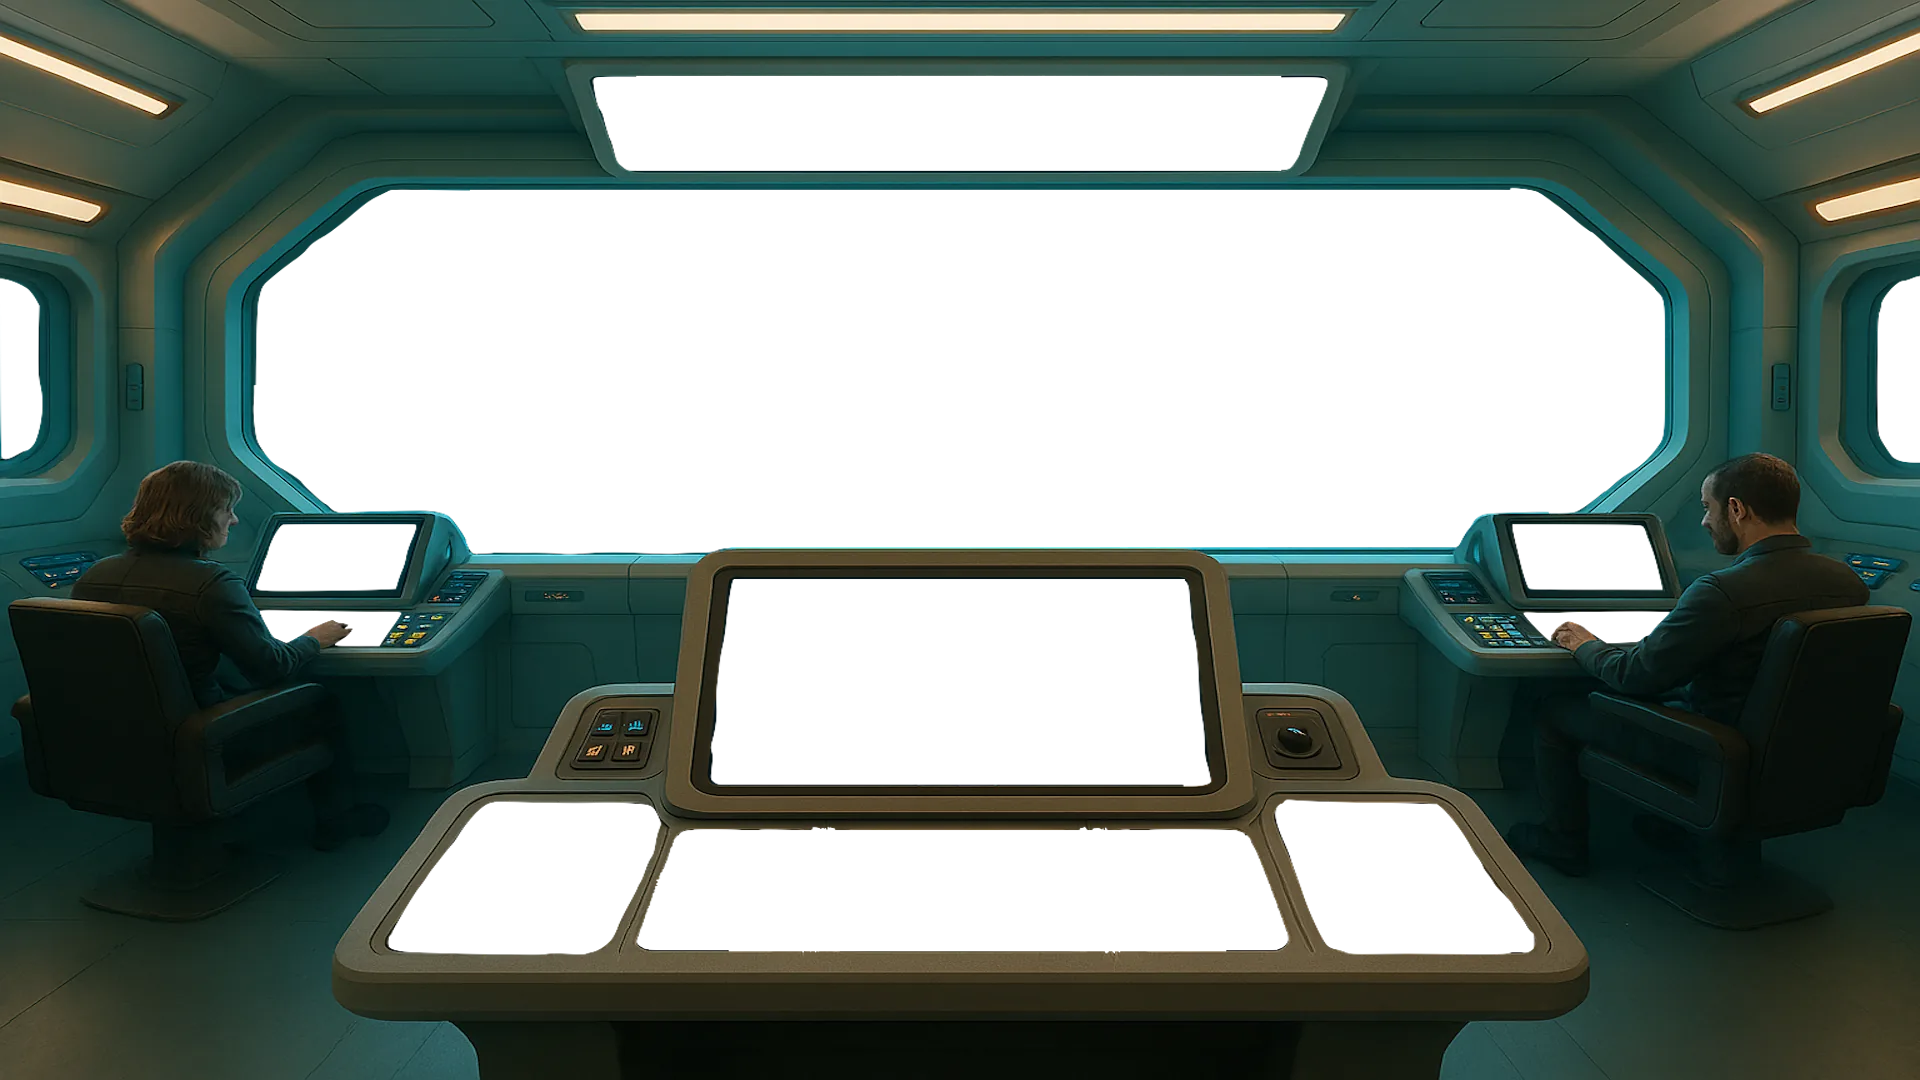
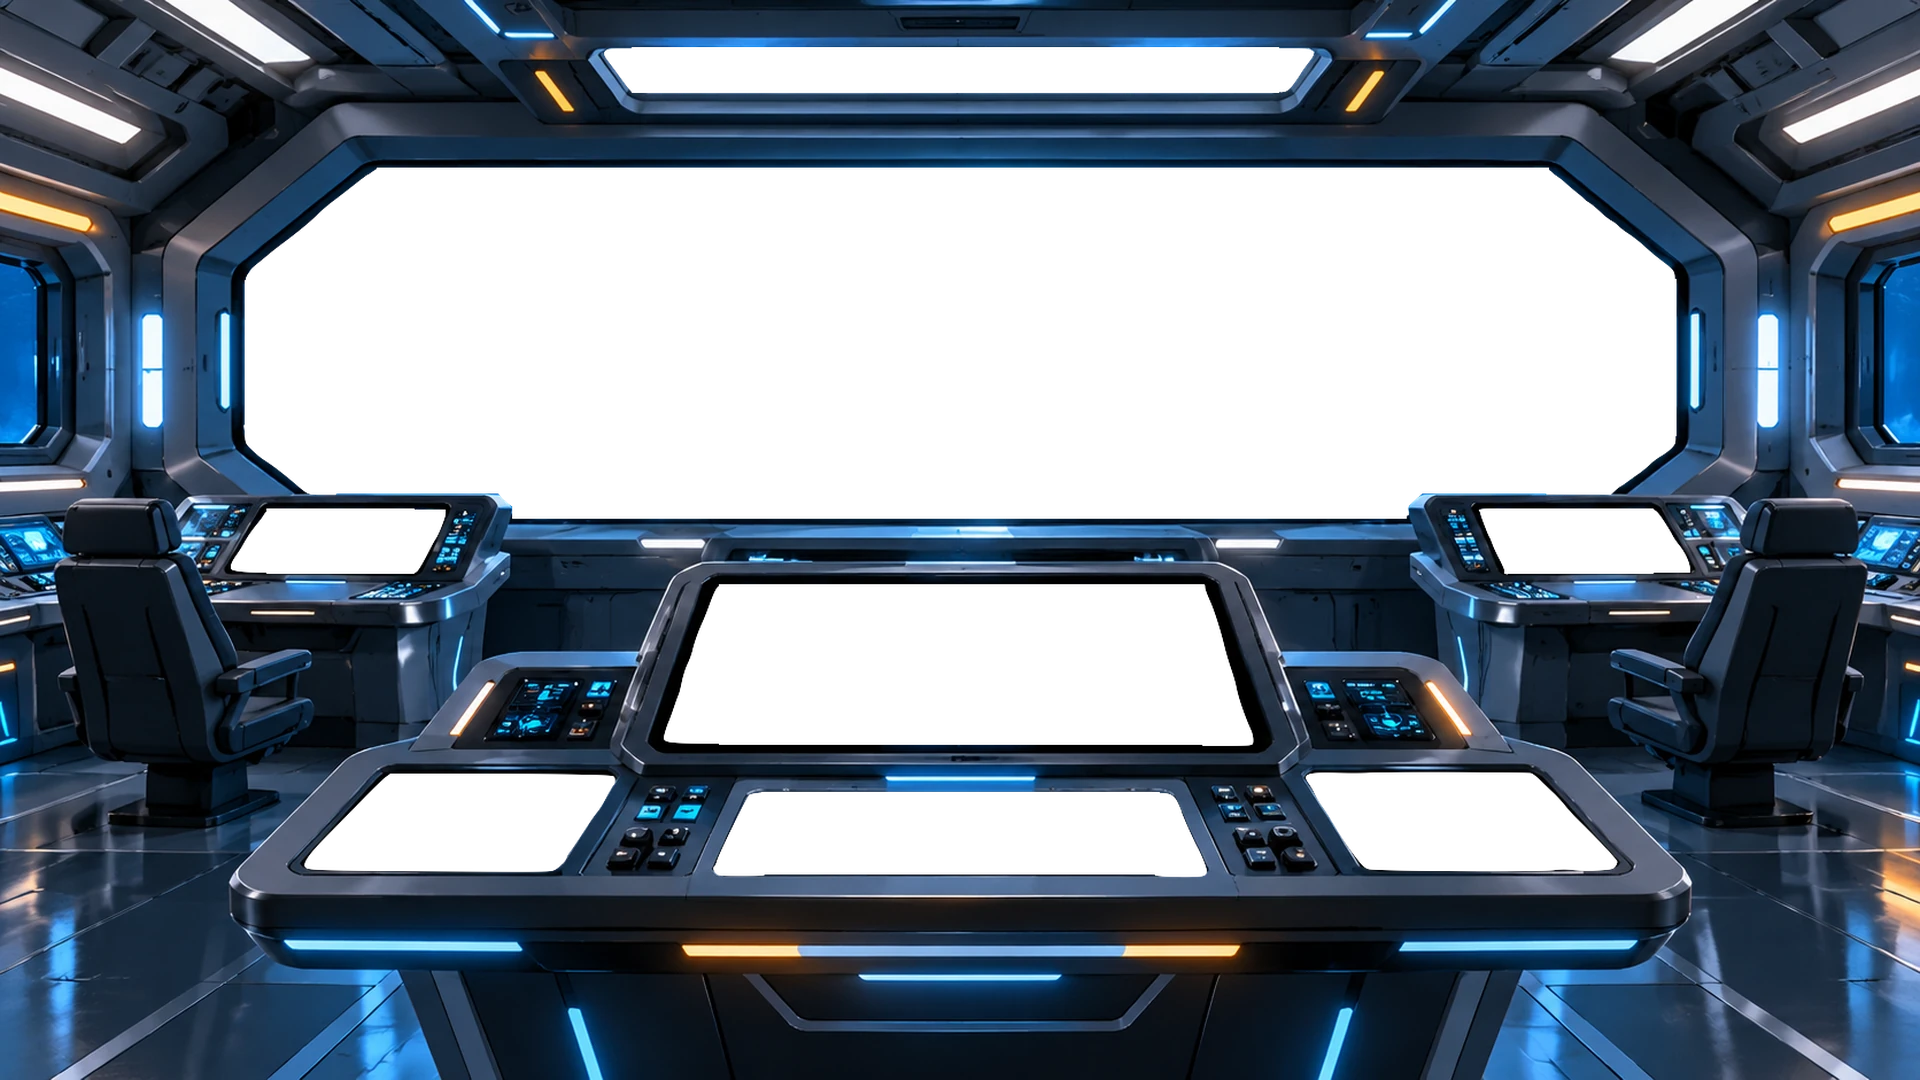
New bridge and science lab art, with live screens tilted into the cut-outs
bridge.png: 8 cut-outs (window, strip, centre display, three desk panels, two
station screens). science.png: 5 cut-outs (banner, samples, research, analysis,
remora). Corners found by tools/cutouts.py. The old bridge frame art stays in
assets/images.

Claude-Session: https://claude.ai/code/session_01QsU1qWEAPEAk9jRv6Wrose

diff --git a/tablet/js/scene.js b/tablet/js/scene.js
@@ -2,6 +2,7 @@
 import { sim } from './sim.js';
 import { el } from './util.js';
 import { createBridgeConsole } from './bridge.js';
+import { samples, sampleName, jobs, points, research, LABS } from './science.js';
 
 const box = (cls, x, y, w, h, kids) => el('div', { class: `disp ${cls}`, style: `left:${x}px;top:${y}px;width:${w}px;height:${h}px` }, kids);
 
@@ -42,11 +43,21 @@ export function createScene(stage, { onOpen }) {
     el('button', { class: `hs ${extra}`, style: `left:${x}px;top:${y}px;width:${w}px;height:${h}px`, 'aria-label': label, onclick },
       el('span', { class: `tag ${tagPos}`, text: label }));
 
+  // The art (bridge.png, 1920x1080) has eight cut-outs; each screen sits behind its cut-out. Corners are TL, TR, BR, BL on the stage.
+  // W x H is the screen's own size, with the perspective undone (flat desk panels are deeper than they look), so the picture is tilted and squeezed the way the glass is.
+  const stnL = el('div', { class: 'bstn' }, el('b', { text: 'COMMS' }), el('span', { text: 'STANDBY' }));
+  const stnR = el('div', { class: 'bstn' }, el('b', { text: 'SENSORS' }), el('span', { text: 'STANDBY' }));
+  topD.classList.add('compact');
   bridge.append(
-    box('bmainbox', 254, 189, 1410, 364, [mainD]), box('', 594, 76, 733, 94, [topD]), slanted('bdispbox', dispD, 478, 204, [[730, 581], [1187, 581], [1206, 781], [711, 781]]),
-    slanted('', ctrD, 612, 118, [[674, 832], [1243, 832], [1287, 947], [641, 947]]),
-    slanted('', leftD, 205, 146, [[470, 805], [640, 808], [595, 947], [379, 947]]),
-    slanted('', rightD, 180, 128, [[1292, 812], [1441, 816], [1515, 938], [1327, 938]]), frame,
+    box('bmainbox', 243, 168, 1433, 351, [mainD]),                                                        // the big window
+    slanted('btbox', topD, 720, 48, [[604, 55], [1313, 52], [1278, 92], [632, 92]]),                      // strip over the window
+    slanted('bdispbox', dispD, 560, 190, [[719, 584], [1203, 584], [1253, 740], [664, 735]]),             // centre display
+    slanted('', ctrD, 612, 130, [[752, 793], [1159, 792], [1206, 872], [713, 867]]),                      // centre desk
+    slanted('', leftD, 224, 132, [[389, 774], [614, 778], [552, 870], [304, 865]]),                       // left desk panel
+    slanted('', rightD, 224, 132, [[1306, 776], [1530, 772], [1616, 864], [1369, 869]]),                  // right desk panel
+    slanted('', stnL, 200, 74, [[266, 508], [444, 510], [413, 573], [231, 568]]),                         // left station screen
+    slanted('', stnR, 200, 74, [[1479, 510], [1652, 508], [1689, 572], [1504, 573]]),                     // right station screen
+    frame,
     hs('COMMS', 40, 430, 520, 350, () => onOpen('comms'), 'top'),        // comms officer, left station
     hs('SENSORS', 1380, 430, 520, 350, () => onOpen('sensors'), 'top'),  // sensors, right station
     hs('◂ WALKWAY', 0, 890, 330, 190, () => onOpen('walkway'), 'mid'),    // lower corners leave the bridge
@@ -96,16 +107,26 @@ export function createScene(stage, { onOpen }) {
     door('LAUNCH BAY', 396, 287, 494, 586, 'launchbay'),
     door('ENGINEERING', 1062, 300, 413, 440, 'engineering'),
     hs('A1 DECK ▼', 560, 900, 800, 180, () => onOpen('walkway'), 'mid'));
-  // science lab: placeholder art (medbay concept). Samples, analysis and research live in the Lab station; the ROV in the Launch Bay.
+  // science lab (science.png, 1920x1080): five cut-outs hold live screens that open the stations they show. The door leads out to the walkway.
+  const sci = { banner: el('div', { class: 'sciscr' }), samples: el('div', { class: 'sciscr' }), analysis: el('div', { class: 'sciscr' }), research: el('div', { class: 'sciscr' }), remora: el('div', { class: 'sciscr' }) };
+  const sciFrame = el('img', { class: 'frame', src: 'assets/science.webp', alt: '', draggable: 'false', decoding: 'async' });
   const science = el('div', { class: 'scene science', hidden: true });
-  science.append(el('img', { src: 'assets/science.webp', alt: '', draggable: 'false', style: 'position:absolute;inset:0;width:100%;height:100%;object-fit:cover' }),
-    hs('SAMPLES', 20, 400, 780, 560, () => onOpen('lab'), 'top'),
-    hs('ANALYSIS', 520, 250, 300, 340, () => onOpen('lab-analysis'), 'top'),
-    hs('RESEARCH', 1660, 440, 260, 560, () => onOpen('lab-research'), 'bottom'),
-    hs('REMORA', 830, 300, 190, 220, () => onOpen('remora'), 'top'),
-    hs('WALKWAY ▸', 1500, 320, 260, 330, () => onOpen('walkway'), 'mid'),
-    hs('MEDBAY', 1040, 540, 520, 300, () => onOpen('medbay'), 'mid'),
-    el('div', { class: 'art-note', text: 'Placeholder art' }));
+  science.append(
+    slanted('', sci.banner, 350, 72, [[365, 215], [715, 225], [723, 289], [370, 282]]),
+    slanted('', sci.samples, 250, 206, [[1569, 110], [1816, 36], [1810, 242], [1566, 281]]),
+    slanted('', sci.research, 296, 186, [[1596, 335], [1887, 301], [1882, 487], [1596, 483]]),
+    slanted('', sci.analysis, 160, 172, [[1107, 345], [1265, 311], [1268, 482], [1109, 483]]),
+    slanted('', sci.remora, 190, 96, [[749, 378], [936, 378], [936, 472], [750, 475]]),
+    sciFrame,
+    hs('SAMPLES', 666, 620, 680, 430, () => onOpen('lab'), 'top'),                 // the island bench
+    hs('ANALYSIS', 1280, 540, 640, 300, () => onOpen('lab-analysis'), 'top'),     // the bench with the racks and the microscope
+    hs('RESEARCH', 0, 380, 240, 260, () => onOpen('lab-research'), 'bottom'),     // the machine on the left
+    hs('MEDBAY', 0, 700, 330, 380, () => onOpen('medbay'), 'mid'),                // no door for it in the art yet
+    hs('WALKWAY ▸', 345, 345, 255, 300, () => onOpen('walkway'), 'mid'),          // the door
+    hs('SAMPLES', 1530, 60, 330, 250, () => onOpen('lab'), 'bottom'),             // the screens
+    hs('RESEARCH', 1590, 300, 310, 200, () => onOpen('lab-research'), 'bottom'),
+    hs('ANALYSIS', 1100, 310, 175, 180, () => onOpen('lab-analysis'), 'bottom'),
+    hs('REMORA', 745, 370, 195, 110, () => onOpen('remora'), 'bottom'));
   // medbay (concept art). Treatment and crew health are not built yet; the exam table is a locked tap area for now.
   const medbay = el('div', { class: 'scene medbay', hidden: true });
   const mbRead = el('div', { class: 'mb-read' });
@@ -133,6 +154,16 @@ export function createScene(stage, { onOpen }) {
     stage.addEventListener('click', (e) => { if (Date.now() - shown < 600) { e.stopPropagation(); e.preventDefault(); } }, true);   // the press that revealed the labels is not a tap
   }
 
+  const row = (k, v) => `<div><span>${k}</span><b>${v}</b></div>`;
+  function updateScience() {
+    const sm = samples(), jb = jobs(), s = sim.s, r = s.rov, done = research.done();
+    const put = (key, html) => { if (cache.get('sci' + key) !== html) { cache.set('sci' + key, html); sci[key].innerHTML = html; } };
+    put('banner', `<h4>SCIENCE LAB</h4><p>${sm.length} sample${sm.length === 1 ? '' : 's'} · ${jb.length ? jb.length + ' analysing' : 'labs idle'}</p>`);
+    put('samples', `<h4>SAMPLES</h4>${sm.length ? sm.slice(-5).reverse().map((q) => `<p class="${q.status === 'done' ? 'ok' : ''}">${sampleName(q, sm)}</p>`).join('') : '<p class="dim">None yet</p>'}`);
+    put('analysis', `<h4>ANALYSIS</h4>${Object.entries(LABS).map(([id, l]) => { const j = jb.find((x) => x.lab === id); return row(l.name.split(' ')[0], j ? Math.max(0, Math.round((j.end - s.clock) / 60)) + ' min' : 'idle'); }).join('')}`);
+    put('research', `<h4>RESEARCH</h4>${row('Points', points())}${row('Topics done', done.length)}`);
+    put('remora', `<h4>REMORA</h4>${r ? row('Status', r.auto ? 'coming home' : r.job ? 'working' : 'out') + row('Storage', `${(r.cargo || []).length} of 3`) : row('Status', 'in bay')}`);
+  }
   const api = {
     inQuarters: false, where: 'bridge',
     show(which) {
@@ -146,6 +177,7 @@ export function createScene(stage, { onOpen }) {
         if (cache.get('mb') !== t) { cache.set('mb', t); mbRead.textContent = t; mbView.style.setProperty('--dark', Math.min(0.92, 0.25 + sim.s.depth / 700).toFixed(2)); }
         return;
       }
+      if (api.where === 'science') { updateScience(); return; }
       if (api.where !== 'bridge') return;
       const s = sim.s;
       consoleApi.update();

diff --git a/tablet/tablet.css b/tablet/tablet.css
@@ -711,3 +711,16 @@ input.mix { width: 100%; height: 2.4rem; accent-color: var(--cyan); }
 .tether.long .tt-fill { background: #b8860b; } .tether.long .tt-head { color: #ffd166; }
 .tether.taut .tt-fill { background: #d9534f; } .tether.taut .tt-head { color: #ff8a84; }
 .tether[hidden] { display: none; }
+
+/* ---- new bridge art: the strip over the window is one line; station screens ---- */
+.bt.compact { flex-direction: row; gap: 14px; justify-content: center; align-items: center; }
+.bt.compact .bt-place { font-size: 19px; max-width: 250px; } .bt.compact .bt-pos { font-size: 14px; letter-spacing: 0; } .bt.compact .bt-note { font-size: 16px; max-width: 280px; }
+.bt.compact .bt-stack { gap: 0; } .bt.compact .bt-title.big, .bt.compact .bt-title.mid { font-size: 24px; line-height: 28px; } .bt.compact .bt-title.small { font-size: 20px; line-height: 22px; -webkit-line-clamp: 1; } .bt.compact .bt-body { display: none; }
+.bstn { position: absolute; inset: 0; background: #04121f; display: flex; flex-direction: column; align-items: center; justify-content: center; font-family: var(--mono); color: var(--cyan); background-image: repeating-linear-gradient(0deg, rgba(100,255,218,.05) 0 2px, transparent 2px 5px); }
+.bstn b { font-size: 24px; letter-spacing: .16em; } .bstn span { font-size: 15px; letter-spacing: .2em; color: var(--dim); }
+
+/* ---- science lab screens ---- */
+.sciscr { position: absolute; inset: 0; background: #04121f; font-family: var(--mono); color: var(--text); padding: 8px 10px; box-sizing: border-box; overflow: hidden; background-image: repeating-linear-gradient(0deg, rgba(100,255,218,.04) 0 2px, transparent 2px 5px); }
+.sciscr h4 { margin: 0 0 4px; font-size: 20px; letter-spacing: .14em; color: var(--cyan); }
+.sciscr p { margin: 0; font-size: 15px; line-height: 20px; white-space: nowrap; overflow: hidden; text-overflow: ellipsis; color: #cfe9f2; } .sciscr p.ok { color: #7dffb0; } .sciscr p.dim { color: var(--dim); }
+.sciscr div { display: flex; justify-content: space-between; gap: 8px; font-size: 15px; line-height: 21px; } .sciscr div span { color: var(--dim); } .sciscr div b { color: #fff; font-weight: 700; }

diff --git a/sw.js b/sw.js
@@ -2,7 +2,7 @@
    falls back to the saved copy when offline or slow. Covers the iPad game (tablet/) and the
    iPhone PED (ped/). Only same-origin GET requests are handled: GitHub sync calls go straight to
    the network. Run `python3 tools/update_sw.py` after adding or renaming files. */
-const VERSION = '503562835d';
+const VERSION = '02fc9e8e65';
 const CACHE = 'aquanova-' + VERSION;
 const ASSETS = [
  "tablet/",

diff --git a/tools/cutouts.py b/tools/cutouts.py
@@ -1,0 +1,44 @@
+#!/usr/bin/env python3
+"""Find the transparent cut-outs in a room frame (RGBA png) and print their corners on the 1920x1080 stage,
+plus the true width/height ratio of each (perspective undone, rectangle assumed, principal point at the centre).
+python3 tools/cutouts.py assets/images/bridge.png"""
+import sys, json, numpy as np, cv2
+from scipy import ndimage as ndi
+from PIL import Image
+def aspect(q, u0=960, v0=540):
+    """Whiteley-Zhang: width/height of a rectangle seen as quad q = TL, TR, BR, BL."""
+    m = [np.array([x - u0, y - v0, 1.0]) for x, y in (q[0], q[1], q[3], q[2])]   # m1 TL, m2 TR, m3 BL, m4 BR
+    k2 = np.dot(np.cross(m[0], m[3]), m[2]) / np.dot(np.cross(m[1], m[3]), m[2])
+    k3 = np.dot(np.cross(m[0], m[3]), m[1]) / np.dot(np.cross(m[2], m[3]), m[1])
+    n2, n3 = k2 * m[1] - m[0], k3 * m[2] - m[0]
+    den = n2[2] * n3[2]
+    if abs(den) < 1e-9: return None
+    f2 = -((n2[0] * n3[0] + n2[1] * n3[1]) / den)
+    if f2 <= 0: return None
+    A = np.diag([1 / np.sqrt(f2), 1 / np.sqrt(f2), 1.0])
+    r2 = np.dot(A @ n2, A @ n2) / np.dot(A @ n3, A @ n3)
+    return float(np.sqrt(r2)) if r2 > 0 else None
+def main(path, min_px=900):
+    im = Image.open(path).convert('RGBA'); W, H = im.size; sx, sy = 1920 / W, 1080 / H
+    mask = np.array(im)[..., 3] < 128
+    lab, k = ndi.label(mask); out = []
+    for i in range(1, k + 1):
+        m = (lab == i).astype(np.uint8)
+        if m.sum() < min_px: continue
+        c = max(cv2.findContours(m, cv2.RETR_EXTERNAL, cv2.CHAIN_APPROX_SIMPLE)[0], key=cv2.contourArea)
+        hull = cv2.convexHull(c); peri = cv2.arcLength(hull, True)
+        quad = None
+        for e in np.linspace(0.01, 0.1, 30):
+            ap = cv2.approxPolyDP(hull, e * peri, True)
+            if len(ap) == 4: quad = ap[:, 0, :].astype(float); break
+        x, y, w, h = cv2.boundingRect(c)
+        entry = {'id': len(out) + 1, 'area': int(m.sum() * sx * sy), 'bbox': [round(x * sx), round(y * sy), round(w * sx), round(h * sy)]}
+        if quad is not None:
+            s = quad.sum(1); d = np.diff(quad, axis=1)[:, 0]
+            tl, br, tr, bl = quad[np.argmin(s)], quad[np.argmax(s)], quad[np.argmin(d)], quad[np.argmax(d)]
+            q = [[round(p[0] * sx), round(p[1] * sy)] for p in (tl, tr, br, bl)]
+            entry['quad'] = q; entry['aspect'] = aspect(q)
+        out.append(entry)
+    return out
+if __name__ == '__main__':
+    for e in main(sys.argv[1]): print(json.dumps(e))
